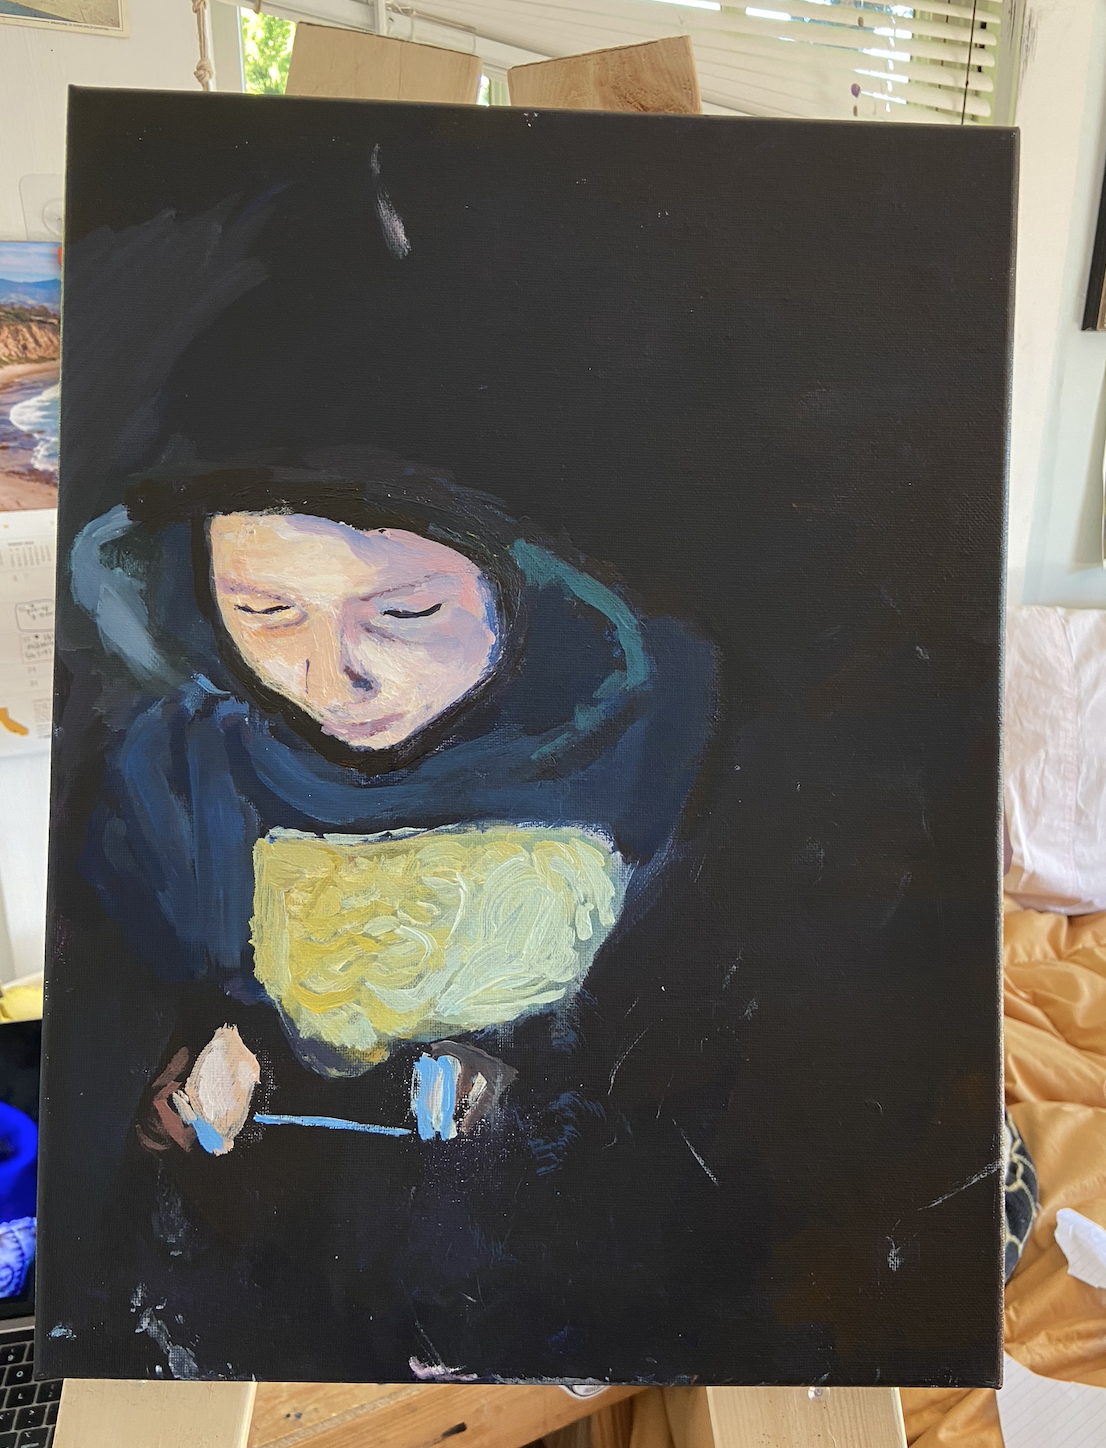
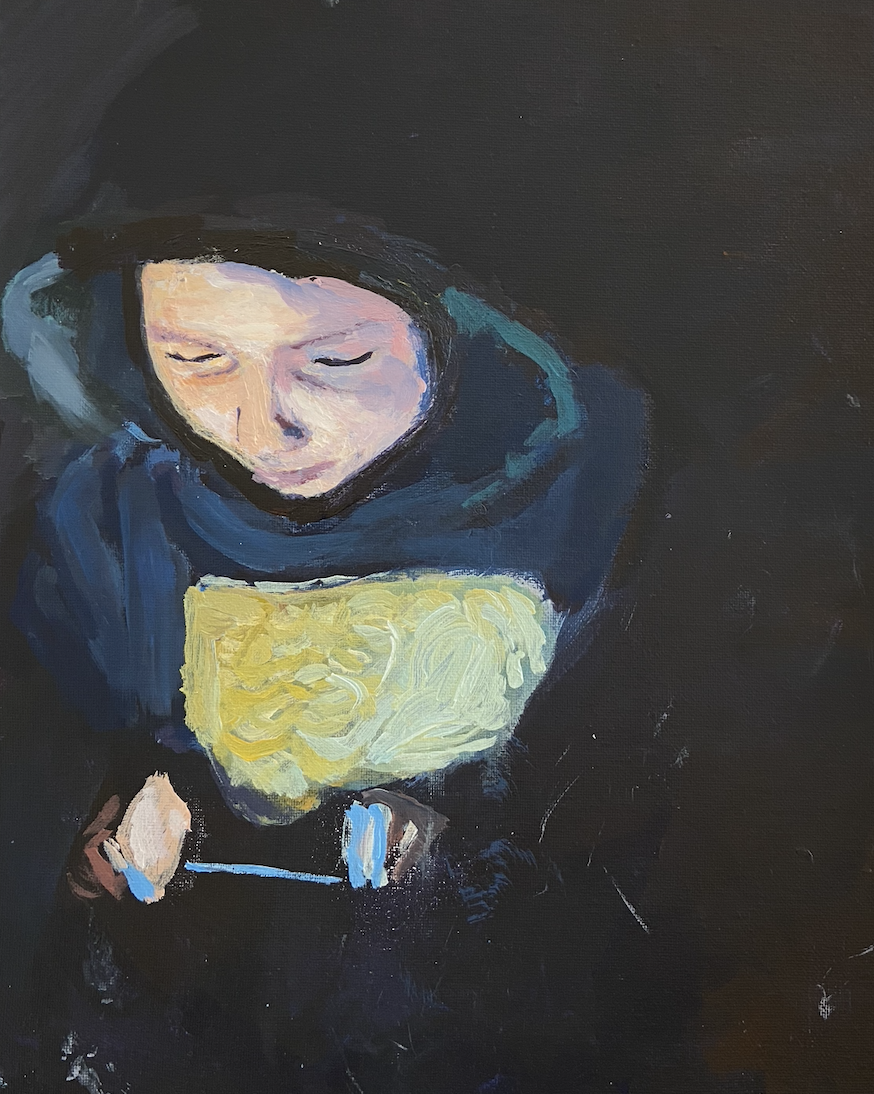
peepoo

diff --git a/_sass/_gallery.scss b/_sass/_gallery.scss
@@ -1,9 +1,11 @@
 .gallery {
-  display: flex;
-  flex-wrap: wrap;
-  gap: 30px;
-  justify-content: center;
-  padding: 1rem;
+  display: grid;
+  grid-template-columns: repeat(auto-fit, minmax(280px, 1fr));
+  gap: 2rem;
+  justify-items: center;
+  padding: 2rem;
+  max-width: 1200px;
+  margin: 0 auto;
 }
 
 .gallery-item {

diff --git a/_pages/gallery.md b/_pages/gallery.md
@@ -14,7 +14,7 @@ nav_order: 2
   </div>
 
   <div class="gallery-item">
-    <img src="{{ '/assets/img/paintings/kitchen-cowboy.png' | relative_url }}" alt="Kitchen Cowboy" style="width: 250px;"/>
+    <img src="{{ '/assets/img/paintings/kitchen-cowboy.png' | relative_url }}" alt="Kitchen Cowboy" style="width: 320px;"/>
     <p class="caption">kitchen cowboy</p>
   </div>
 
